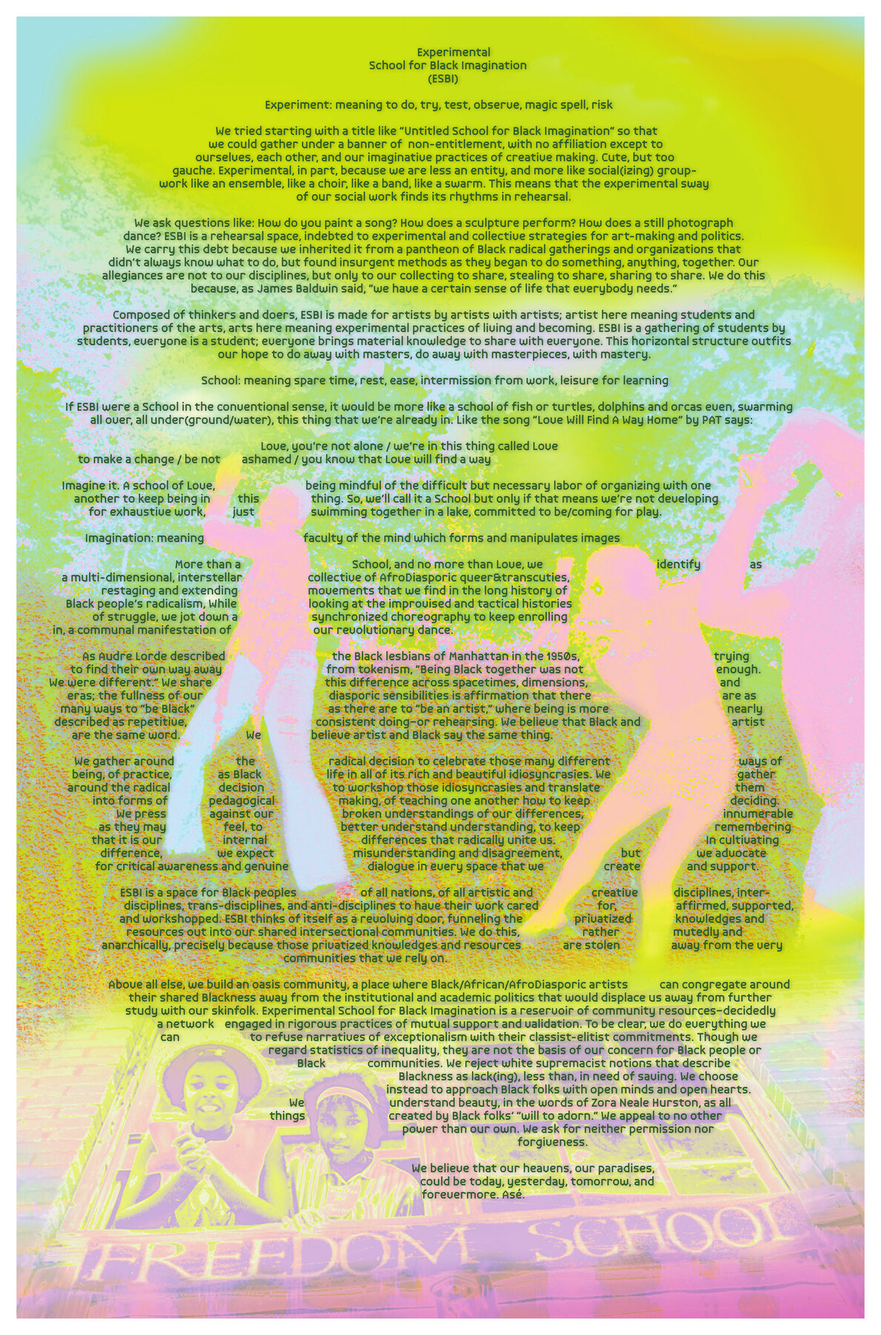
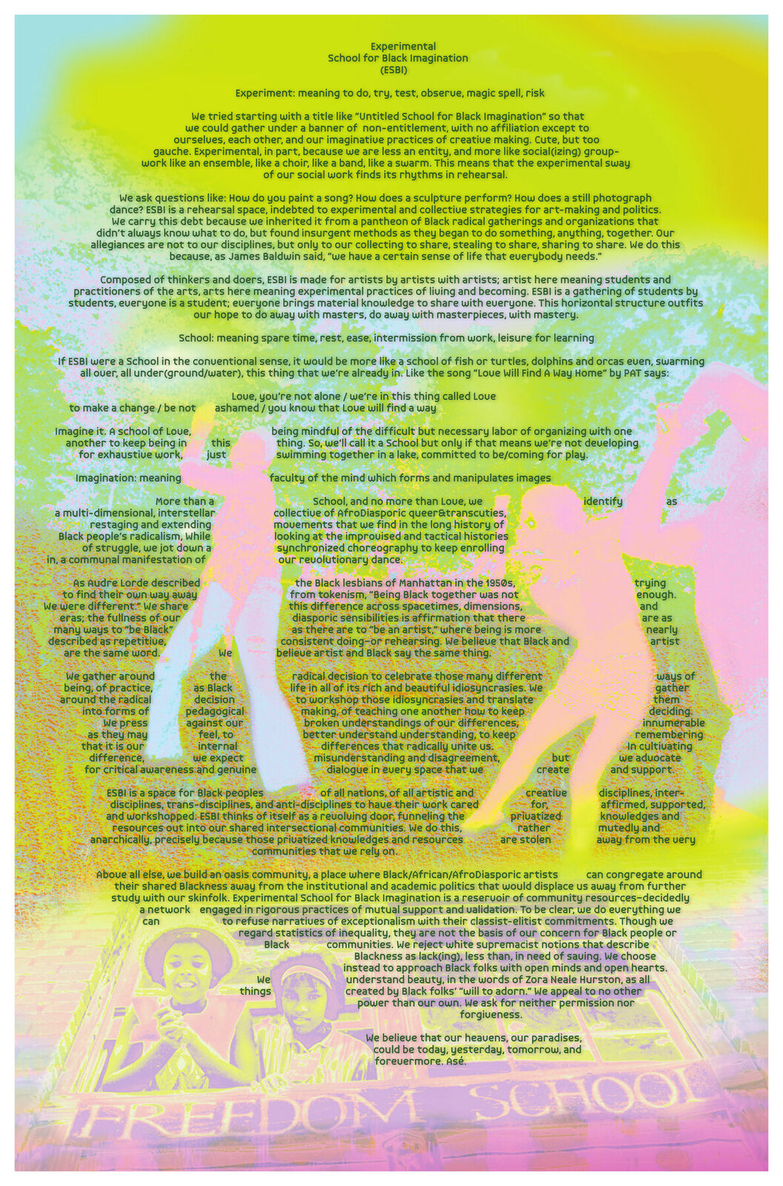
ESBI large + optimized images for faster loading
- ESBI poster now full-size (painting class)
- Updated description: "Experimental School for Black Imagination manifesto poster"
- DREAMKI flyer stays in horizontal row
- Optimized large images (90% smaller file sizes)

diff --git a/artist.html b/artist.html
@@ -131,26 +131,26 @@
       <section class="art-year-section" id="y2026" data-year-section>
         <span class="year-label">2026</span>
         <div class="art-grid-scatter">
+          <div class="art-item art-item--painting">
+            <figure>
+              <div class="art-frame-img" style="background-image: url('assets/images/art/placeholders/ESBI_poster_23x15_600dpi-placeholder.jpg')">
+                <img data-src="assets/images/art/ESBI_poster_23x15_600dpi.jpg" alt="Experimental School for Black Imagination manifesto poster" loading="lazy">
+              </div>
+              <figcaption>
+                <strong>ESBI</strong>
+                <span>Experimental School for Black Imagination manifesto poster</span>
+              </figcaption>
+            </figure>
+          </div>
           <div class="art-row">
             <div class="art-item art-item--flyer">
               <figure>
                 <div class="art-frame-img" style="background-image: url('assets/images/art/placeholders/dreamki-2026-placeholder.jpg')">
-                  <img data-src="assets/images/art/dreamki-2026.jpg" alt="DREAMKI event flyer">
+                  <img data-src="assets/images/art/dreamki-2026.jpg" alt="DREAMKI event flyer" loading="lazy">
                 </div>
                 <figcaption>
                   <strong>DREAMKI</strong>
                   <span>Event flyer, MOTHERBOARD</span>
-                </figcaption>
-              </figure>
-            </div>
-            <div class="art-item art-item--poster">
-              <figure>
-                <div class="art-frame-img" style="background-image: url('assets/images/art/placeholders/ESBI_poster_23x15_600dpi-placeholder.jpg')">
-                  <img data-src="assets/images/art/ESBI_poster_23x15_600dpi.jpg" alt="ESBI screening poster">
-                </div>
-                <figcaption>
-                  <strong>ESBI</strong>
-                  <span>Screening poster, 23×15</span>
                 </figcaption>
               </figure>
             </div>
